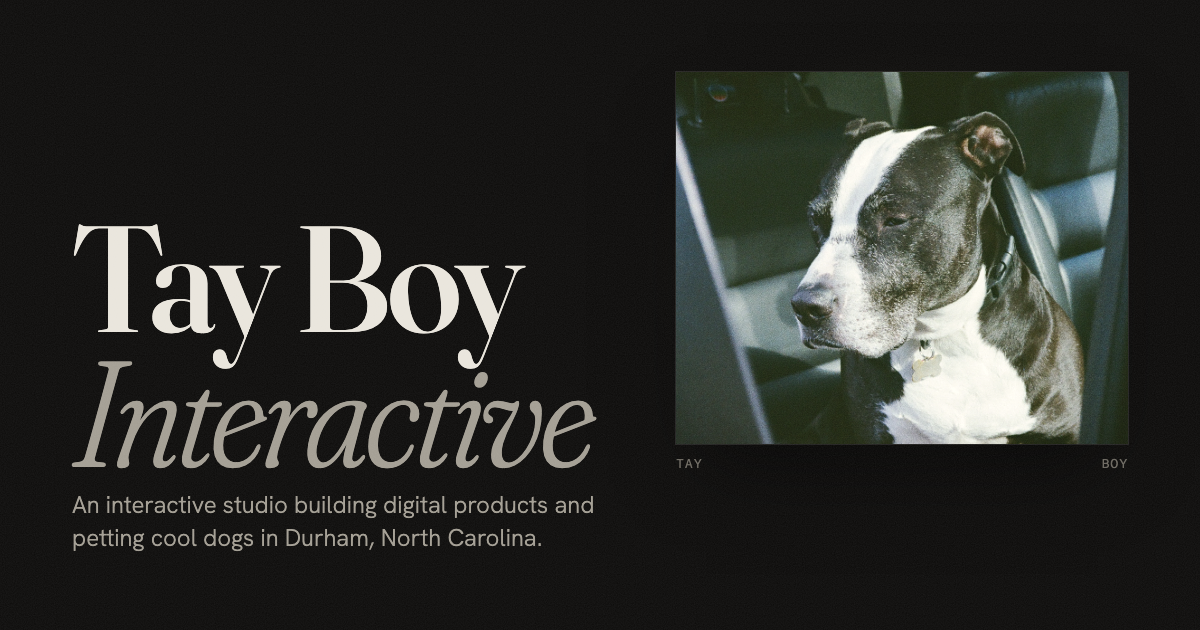
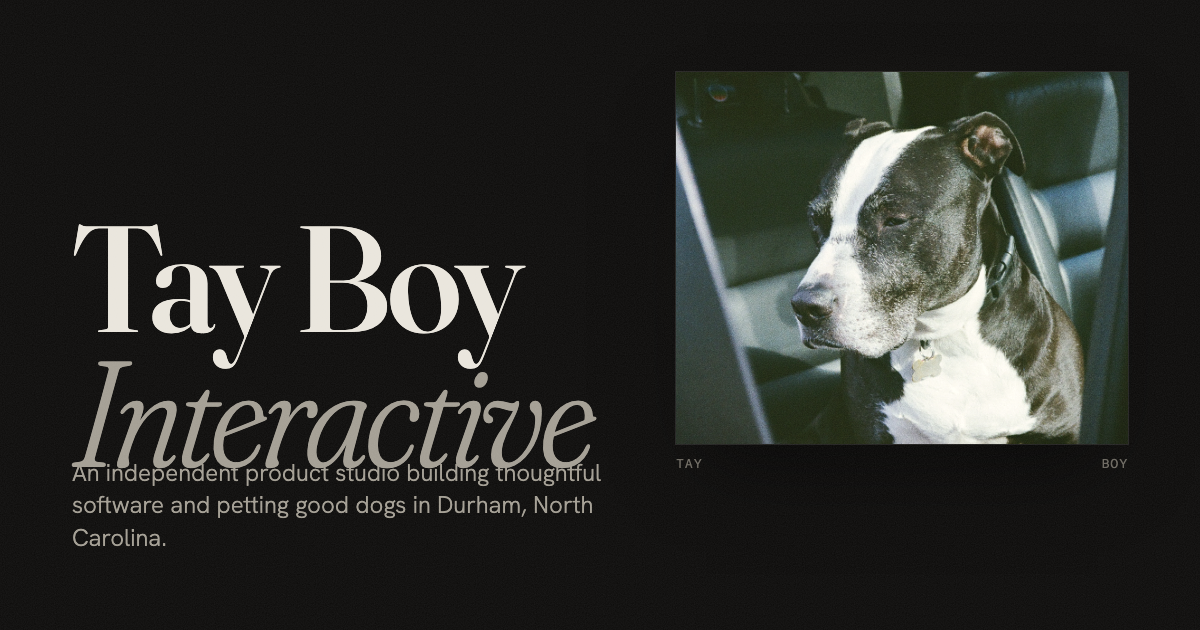
Subtitle: independent product studio building thoughtful software

Changed region(s): [[0.0617, 0.7238, 0.4933, 0.8746]]

diff --git a/index.html b/index.html
@@ -4,12 +4,12 @@
   <meta charset="utf-8">
   <meta name="viewport" content="width=device-width, initial-scale=1">
   <title>Tay Boy Interactive</title>
-  <meta name="description" content="Tay Boy Interactive is an interactive studio building digital products and petting cool dogs in Durham, North Carolina.">
+  <meta name="description" content="Tay Boy Interactive is an independent product studio building thoughtful software and petting good dogs in Durham, North Carolina.">
   <meta property="og:type" content="website">
   <meta property="og:site_name" content="Tay Boy Interactive">
   <meta property="og:url" content="https://tayboyinteractive.com/">
   <meta property="og:title" content="Tay Boy Interactive">
-  <meta property="og:description" content="An interactive studio building digital products and petting cool dogs in Durham, North Carolina.">
+  <meta property="og:description" content="An independent product studio building thoughtful software and petting good dogs in Durham, North Carolina.">
   <meta property="og:image" content="https://tayboyinteractive.com/assets/og.png">
   <meta property="og:image:width" content="1200">
   <meta property="og:image:height" content="630">
@@ -35,7 +35,7 @@
           <span class="title__line"><span class="title__inner" data-letters>Tay Boy</span></span>
           <span class="title__line title__line--em"><span class="title__inner">Interactive</span></span>
         </h1>
-        <p class="lede">An interactive studio building digital products and petting cool dogs in Durham, North&nbsp;Carolina.</p>
+        <p class="lede">An independent product studio building thoughtful software and petting good dogs in Durham, North&nbsp;Carolina.</p>
       </div>
 
       <figure class="print">
